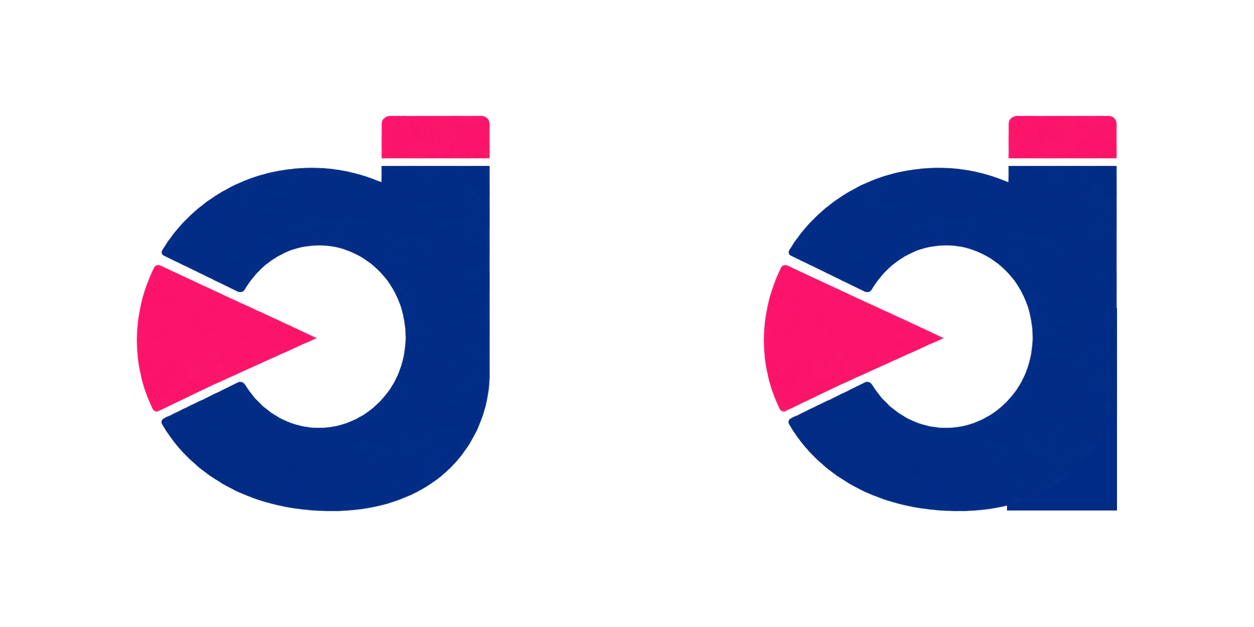
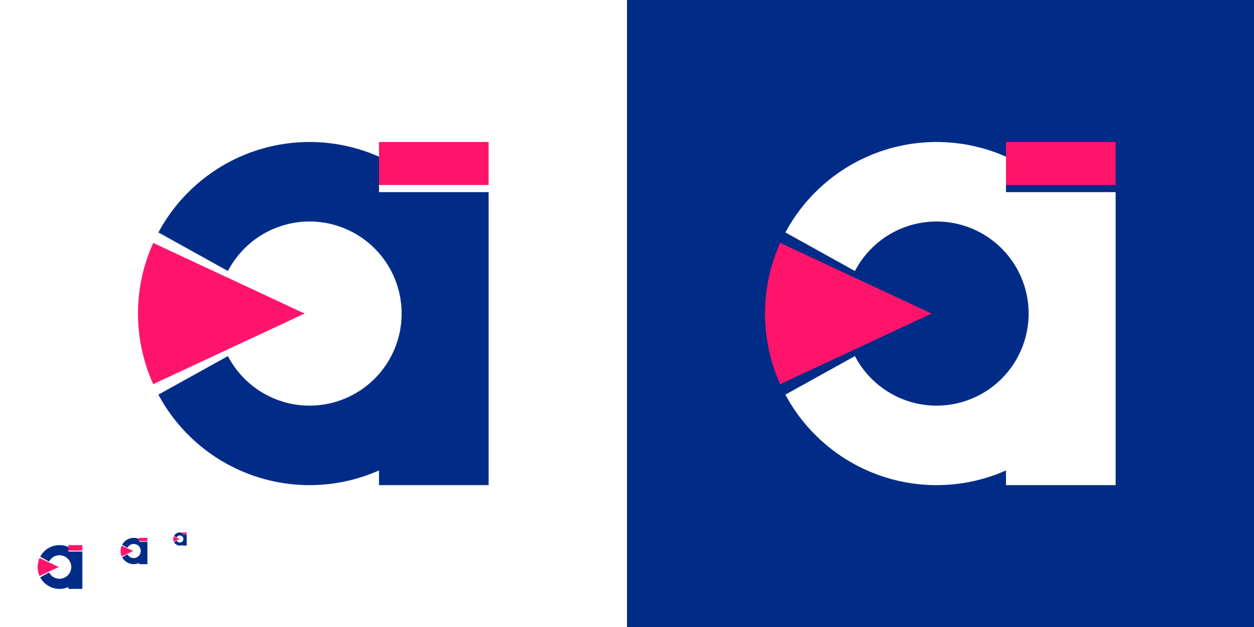
Afrippa mark: a small a that never reads as a d (draft)

diff --git a/scripts/afrippa-mark-draft.py b/scripts/afrippa-mark-draft.py
@@ -1,29 +1,104 @@
 """
-Draft Afrippa marks from BitoCard's "b" (assets/logo.png), for the owner to choose from: the "b" mirrored so its
-arrow points forward, its stem cut to the bowl's height and its pink cap moved down onto it, which makes a
-single-storey "a". Draft A (mark-a-curved.png) keeps the b's rounded foot; draft B (mark-b-straight.png, made here)
-runs the stem straight down to the baseline, as an "a" stands. Drafts only: the approved mark is redrawn as a vector.
-Run from the repository root: python scripts/afrippa-mark-draft.py
+Draft Afrippa marks (a lowercase "a") drawn from BitoCard's "b" mark's own geometry and colours (assets/logo.png):
+the same bowl, counter, pink arrow wedge and its cut lines, and the pink cap, but with the stem on the right at the
+bowl's height, so nothing rises above the bowl and it reads as a small "a", never a "d".
+  C (mark-c-single.png): a single-storey "a": the stem from the bowl's top to the baseline, its top the pink cap.
+Drafts only: the approved mark is redrawn as a vector. Run from the repository root:
+python scripts/afrippa-mark-draft.py
 """
-from PIL import Image
-import numpy as np
-S='assets/afrippa/drafts/'
-src=np.array(Image.open('assets/logo.png').convert('RGBA'))
-a=src.copy(); a[:,:,3]=np.where(a[:,:,3]<30,0,a[:,:,3])
-solid=(a[:,:,3]>=250)&(a[:,:,2]>100)&(a[:,:,0]<60)
-colour=np.array([0,43,134,255],dtype=a.dtype)
-base=np.where(solid.any(axis=1))[0].max()
-for y in range(700, base+1):
-    xs=np.where(solid[y,270:700])[0]
-    first=270+xs[0] if len(xs) else 502
-    if first>282: a[y,282:min(first,502)]=colour
-x0,x1=272,512; Y0=416; shift=Y0-250
-cap=a[140:250, x0:x1].copy(); a[140:Y0, x0:x1]=0; a[140+shift:250+shift, x0:x1]=cap
-a=a[:, ::-1]
-ys,xs=np.where(a[:,:,3]>0); top,bottom,left,right=ys.min(),ys.max(),xs.min(),xs.max()
-out=np.zeros_like(a); h=bottom-top+1; w=right-left+1; Y=(1254-h)//2; X=(1254-w)//2
-out[Y:Y+h, X:X+w]=a[top:bottom+1, left:right+1]
-Image.fromarray(out).save(S+'mark-b-straight.png')
-A=Image.open(S+'mark-a-curved.png').convert('RGBA'); B=Image.fromarray(out)
-sheet=Image.new('RGBA',(1254*2,1254),(255,255,255,255)); sheet.alpha_composite(A,(0,0)); sheet.alpha_composite(B,(1254,0))
-sheet.convert('RGB').resize((1254,627)).save(S+'mark-options.png')
+import math
+from PIL import Image, ImageDraw
+
+OUT = "assets/afrippa/drafts/"
+NAVY, PINK = (0, 43, 134, 255), (255, 20, 108, 255)
+K = 4                      # drawn at 4x, then scaled down for smooth edges
+N = 1254 * K
+
+
+def P(v):
+    return v * K
+
+
+# The b mark's measurements (pixels of the 1254 px master): bowl and counter radii, stem width, gaps.
+R, r = 343, 184            # outer and inner radius of the bowl
+STEM = 219                 # stem width
+GAP = 14                   # the white gap under the cap and along the arrow's cuts
+CAP = 86                   # the cap's height
+WEDGE = 25                 # half-angle of the pink arrow, degrees
+CUT = 29                   # half-angle of the cut in the bowl around it
+
+
+def bowl(draw, cx, cy):
+    draw.ellipse([P(cx - R), P(cy - R), P(cx + R), P(cy + R)], fill=NAVY)
+    draw.ellipse([P(cx - r), P(cy - r), P(cx + r), P(cy + r)], fill=(0, 0, 0, 0))
+
+
+def arrow(im, cx, cy):
+    """The cut on the bowl's left and the pink arrow in it, pointing right into the counter."""
+    ax, ay = cx - 10, cy               # the arrow's point, just inside the counter's centre
+    far = 2 * (R + 60)
+
+    def wedge(draw, half, colour):
+        a1, a2 = math.radians(180 - half), math.radians(180 + half)
+        pts = [(ax, ay), (ax + far * math.cos(a1), ay - far * math.sin(a1)), (ax + far * math.cos(a2), ay - far * math.sin(a2))]
+        draw.polygon([(P(x), P(y)) for x, y in pts], fill=colour)
+
+    wedge(ImageDraw.Draw(im), CUT, (0, 0, 0, 0))
+    # The pink arrow stays inside the bowl's outer circle (it is part of the ring).
+    layer = Image.new("RGBA", im.size, (0, 0, 0, 0))
+    wedge(ImageDraw.Draw(layer), WEDGE, PINK)
+    mask = Image.new("L", im.size, 0)
+    ImageDraw.Draw(mask).ellipse([P(cx - R), P(cy - R), P(cx + R), P(cy + R)], fill=255)
+    clipped = Image.new("RGBA", im.size, (0, 0, 0, 0))
+    clipped.paste(layer, (0, 0), mask)
+    im.alpha_composite(clipped)
+    return im
+
+
+def finish(im, name):
+    small = im.resize((1254, 1254), Image.LANCZOS)
+    box = small.getbbox()
+    out = Image.new("RGBA", (1254, 1254), (0, 0, 0, 0))
+    part = small.crop(box)
+    out.paste(part, ((1254 - part.width) // 2, (1254 - part.height) // 2))
+    out.save(OUT + name)
+    return out
+
+
+def single():
+    im = Image.new("RGBA", (N, N), (0, 0, 0, 0))
+    d = ImageDraw.Draw(im)
+    cx, cy = 560, 627
+    bowl(d, cx, cy)
+    sx = cx + R - STEM + 15            # the stem's left edge, as far right as the b's stem was left
+    d.rectangle([P(sx), P(cy - R), P(sx + STEM), P(cy + R)], fill=NAVY)
+    d.ellipse([P(cx - r), P(cy - r), P(cx + r), P(cy + r)], fill=(0, 0, 0, 0))
+    # The cap: the stem's top, pink, with the white gap under it running across the stem.
+    d.rectangle([P(sx), P(cy - R), P(sx + STEM), P(cy - R + CAP)], fill=PINK)
+    d.rectangle([P(sx), P(cy - R + CAP), P(sx + STEM), P(cy - R + CAP + GAP)], fill=(0, 0, 0, 0))
+    return finish(arrow(im, cx, cy), "mark-c-single.png")
+
+
+def light(mark):
+    """For navy and dark backgrounds: navy turned white, pink kept (as bitocard-mark-light.png)."""
+    out = mark.copy()
+    px = out.load()
+    for y in range(out.height):
+        for x in range(out.width):
+            r_, g, b, a = px[x, y]
+            if a and b > r_:
+                px[x, y] = (255, 255, 255, a)
+    return out
+
+
+if __name__ == "__main__":
+    c = single()
+    small = c.resize((160, 160), Image.LANCZOS)
+    sheet = Image.new("RGBA", (1254 * 2, 1254), (255, 255, 255, 255))
+    sheet.alpha_composite(c, (0, 0))
+    dark = Image.new("RGBA", (1254, 1254), NAVY)
+    dark.alpha_composite(light(c))
+    sheet.alpha_composite(dark, (1254, 0))
+    for i, size in enumerate((160, 96, 48)):
+        sheet.alpha_composite(c.resize((size, size), Image.LANCZOS), (40 + sum((160, 96, 48)[:i]) + 20 * i, 1254 - 200))
+    sheet.convert("RGB").resize((1254, 627)).save(OUT + "mark-options.png")

diff --git a/docs/CRYPTO_SPINOFF_PLAN.md b/docs/CRYPTO_SPINOFF_PLAN.md
@@ -22,7 +22,7 @@ Decided by the owner on 27 October 2026. This plan replaces `docs/BITOCARD_CRYPT
 
 ## Brand (the owner, 27 October 2026)
 
-- **The mark** is BitoCard's, with the "b" recreated as an "a" that keeps the pink arrow and the pink cap: the "b" mirrored (so the arrow points forward), its stem cut to the bowl's height with the cap sitting on it, making a single-storey "a". Two drafts are in `assets/afrippa/drafts/` (A keeps the b's rounded foot, B runs the stem straight down to the baseline, which reads more clearly as an "a"; `scripts/afrippa-mark-draft.py`). Once one is chosen it is **redrawn as a vector** (SVG) by a designer, with its two colours as theme slots (below), and the master kept as `assets/afrippa/logo.svg`; the generated icons, favicons and manifest images come from it as BitoCard's come from `scripts/brand-assets.py`.
+- **The mark** is BitoCard's, with the "b" recreated as a small (lowercase) **"a"** that keeps the pink arrow and the pink cap: the b's bowl, counter, arrow and cuts at the same sizes, the arrow on the left pointing forward into the counter, and the stem on the right running from the bowl's top to the baseline, its top the pink cap, so nothing rises above the bowl and it never reads as a "d" (the owner, 27 October 2026). Draft: `assets/afrippa/drafts/mark-c-single.png`, with `mark-options.png` showing it on white, on navy (navy turned white) and at icon sizes; drawn by `scripts/afrippa-mark-draft.py`. Once approved it is **redrawn as a vector** (SVG) by a designer, with its two colours as theme slots (below), and the master kept as `assets/afrippa/logo.svg`; the generated icons, favicons and manifest images come from it as BitoCard's come from `scripts/brand-assets.py`.
 - **The wordmark:** "Afrippa" beside the mark, as BitoCard's lockup (proposed: "Afri" in the ink colour, "ppa" in the accent, as "Bito" and "card"). The name stands alone; its origin is never spelled out in copy.
 - **The theme** is BitoCard's (navy and pink, Inter, the same components and white space) by default, and **admins choose the colour theme in Afrippa's admin**: a few ready-made themes (BitoCard's navy and pink first, the default) and custom colours (primary, accent, ink, page), each checked for readable contrast before it is saved, previewed before it goes live, and audited. The site reads it from the API (cached) and applies it as the colour variables the components already use (as reseller stores' themes do), so every page, the mark and the emails follow it. The admin app and verify.afrippa.com follow the same theme.
 
